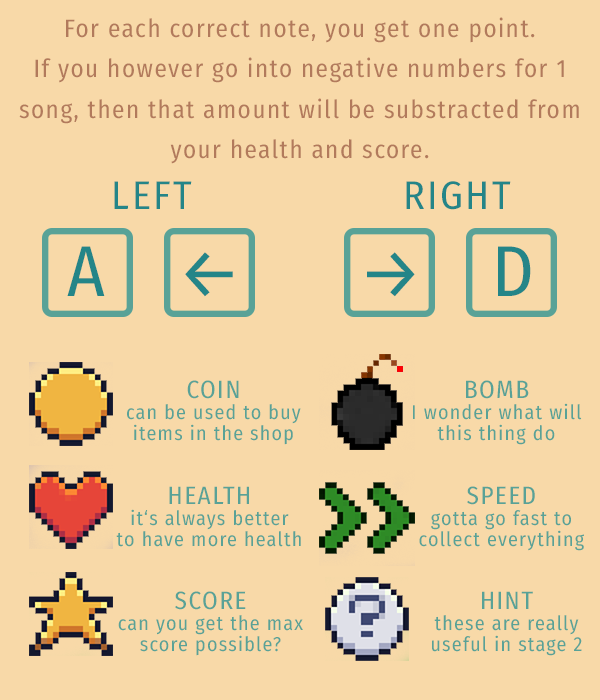
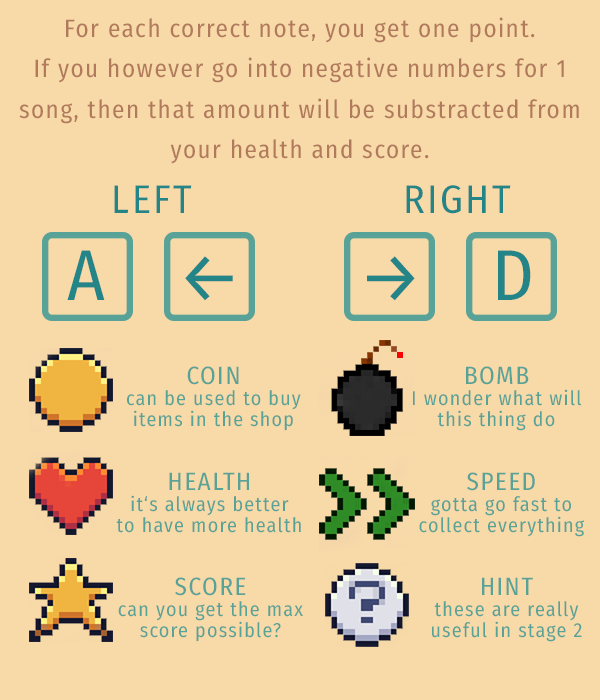
Modified styling

Changed region(s): [[0.03, 0.24, 0.99, 0.96], [0.72, 0.81, 0.99, 0.93], [0.27, 0.3, 0.42, 0.48]]

diff --git a/public/stages/guess.js b/public/stages/guess.js
@@ -47,7 +47,7 @@ socket.on("guess", (data) => {
 })
 
 function renderEmptyHintsTable() {
-    let hints = `<button id="close-hints-button" onClick="$('#hints').hide()">X</button>
+    let hints = `<button id="close-hints-button" onClick="$('#hints').hide()"></button>
         <h3>HINTS</h3>
         <div id="hints-table">`;
     for (let i = 0; i < songLength; i++) {
@@ -311,17 +311,19 @@ async function showGuessNote(note, index, points, song){
     let noteType = note.replace(/\d(\.\d)?([a-z1-9-]*)/, '$2');
     noteType = noteType.replace("-", "rest");
     duration = Object.keys(lengths).find(key => lengths[key] === Number(duration));
+    drawNote(noteType, duration);
     if (index > -1) {
         song[index] = song[index].replace("-", "rest");
         if (note === song[index]) {
             $(".points").text(++points).css("color", "green");
+            $(`#answer${row}`).children().last().css("filter", "brightness(5) hue-rotate(142deg) contrast(1) saturate(6)")
         } else {
             $(".points").text(--points).css("color", "red");
+            $(`#answer${row}`).children().last().css("filter", "brightness(4.5) hue-rotate(16deg) contrast(0.75) saturate(10)")
         }
     }
-    drawNote(noteType, duration);
     soundLength += lengths[duration];
-    if (soundLength / row >= 16 && song.length > index + 1) {
+        if (soundLength / row >= 16 && song.length > index + 1) {
         appendRow();
     }
     note = note.replace("-", "rest");

diff --git a/index.html b/index.html
@@ -5,6 +5,7 @@
     <meta http-equiv="X-UA-Compatible" content="IE=edge">
     <meta name="viewport" content="width=device-width, initial-scale=1.0">
     <title>Music Game</title>
+    <link rel="stylesheet" href="./css/global.css">
     <link rel="stylesheet" href="./css/guess.css">
     <link rel="stylesheet" href="./css/collect.css">
     <link rel="stylesheet" href="./css/join.css">
@@ -21,11 +22,11 @@
     <script src="https://ajax.googleapis.com/ajax/libs/jquery/3.6.0/jquery.min.js"></script>
     <main>
         <div id="first-help" class="center">
-            <button id="next-arrow" onClick="showSecondInfo()">-&gt;</button>
+            <button id="next-arrow" class="arrow-button" onClick="showSecondInfo()"></button>
         </div>
         <div id="second-help" class="center">
-            <button id="previous-arrow" onClick="showFirstInfo()">&lt;-</button>
-            <button id="close-button" onClick="setup()">X</button>
+            <button id="previous-arrow" class="arrow-button" onClick="showFirstInfo()"></button>
+            <button id="close-button" onClick="setup()"></button>
         </div>
         <!-- need exact value as it couldnt handle multiple players -->
         <canvas id ="canvas" width="500", height="500"></canvas>

diff --git a/public/stages/join.js b/public/stages/join.js
@@ -30,12 +30,12 @@ function setup() {
     $("#second-help").hide();
     $("#canvas").show();
     let result = `<div class="character-choice center">
-    <h2>Choose your character</h2>
+    <h2>CHOOSE YOUR CHARACTER:</h2>
     <ul class="character-selection-list">`;
     characters.map((character, index) => {
         result += `<li class="character-select-list-item">
             <input type="radio" class="character-input" id="character-${index}" name="character" value="${index}">
-            <label for="character-${index}" class="character-label" id="character-label-${index}"></label>
+            <label for="character-${index}" class="character-label enabled" id="character-label-${index}"></label>
         </li>`
     })
     result += `</ul>
@@ -66,6 +66,9 @@ function setupPlayer() {
     if (jQuery.isEmptyObject(character)) {
         selectCharacter(0);
     }
+    //remove change of character
+    $(".character-input").removeAttr("onclick");
+    $(`.character-label`).removeClass("enabled");
     //select img
     let img = new Image();
     img.src = "./images/character/bard.png";

diff --git a/public/css/join.css b/public/css/join.css
@@ -89,21 +89,53 @@
 }
 
 #previous-arrow {
-    position: absolute;
+    background: url("../images/info/arrow-left.png");
+    background-size: contain;
     left: 0;
     bottom: 0;
 }
 
 #next-arrow {
-    position: absolute;
+    background: url("../images/info/arrow-right.png");
+    background-size: contain;
     right: 0;
     bottom: 0;
 }
 
-#close-button {
+.arrow-button {
+    height: 2.5em;
+    width: 3em;
+    padding: 0;
+    position: absolute;
+    border: none;
+}
+
+#close-button, #close-hints-button {
+    background: url("../images/info/cross.png");
+    border-radius: 5px;
+    background-size: contain;
     float: right;
+    width: 2em;
+    height: 2em;
 }
 
 #canvas {
     display: none;
+}
+
+#next-arrow:hover, #previous-arrow:hover, #close-button:hover, button:hover:enabled {
+    background-color: #ffffff80;
+    background-blend-mode: multiply;
+}
+
+.character-label.enabled:hover {
+    filter: grayscale(0%);
+}
+
+button:disabled {
+    filter: grayscale(100%);
+}
+
+button:hover:disabled {
+    filter: grayscale(100%);
 }

diff --git a/public/css/guess.css b/public/css/guess.css
@@ -18,8 +18,10 @@
 }
 
 button {
-    background-color: rgb(226, 255, 221);
-    border: none;
+    background: none;
+    border: 2px solid #59a297;
+    border-radius: 25px;
+    color: #248588;
     outline: none;
     padding: 0.5em;
     margin: 0.5em;

diff --git a/public/css/collect.css b/public/css/collect.css
@@ -2,7 +2,7 @@
     margin-left: auto;
     margin-right: auto;
     display: block;
-    background-color: antiquewhite;
+    background-color: #f8d9a8;
     top: 50%;
     left: 50%;
     -ms-transform: translate(-50%, -50%);

diff --git a/public/css/global.css b/public/css/global.css
@@ -1,0 +1,4 @@
+body {
+    font-family: 'Trebuchet MS', 'Arial Narrow', Arial, sans-serif;
+    color: #248588;
+}
